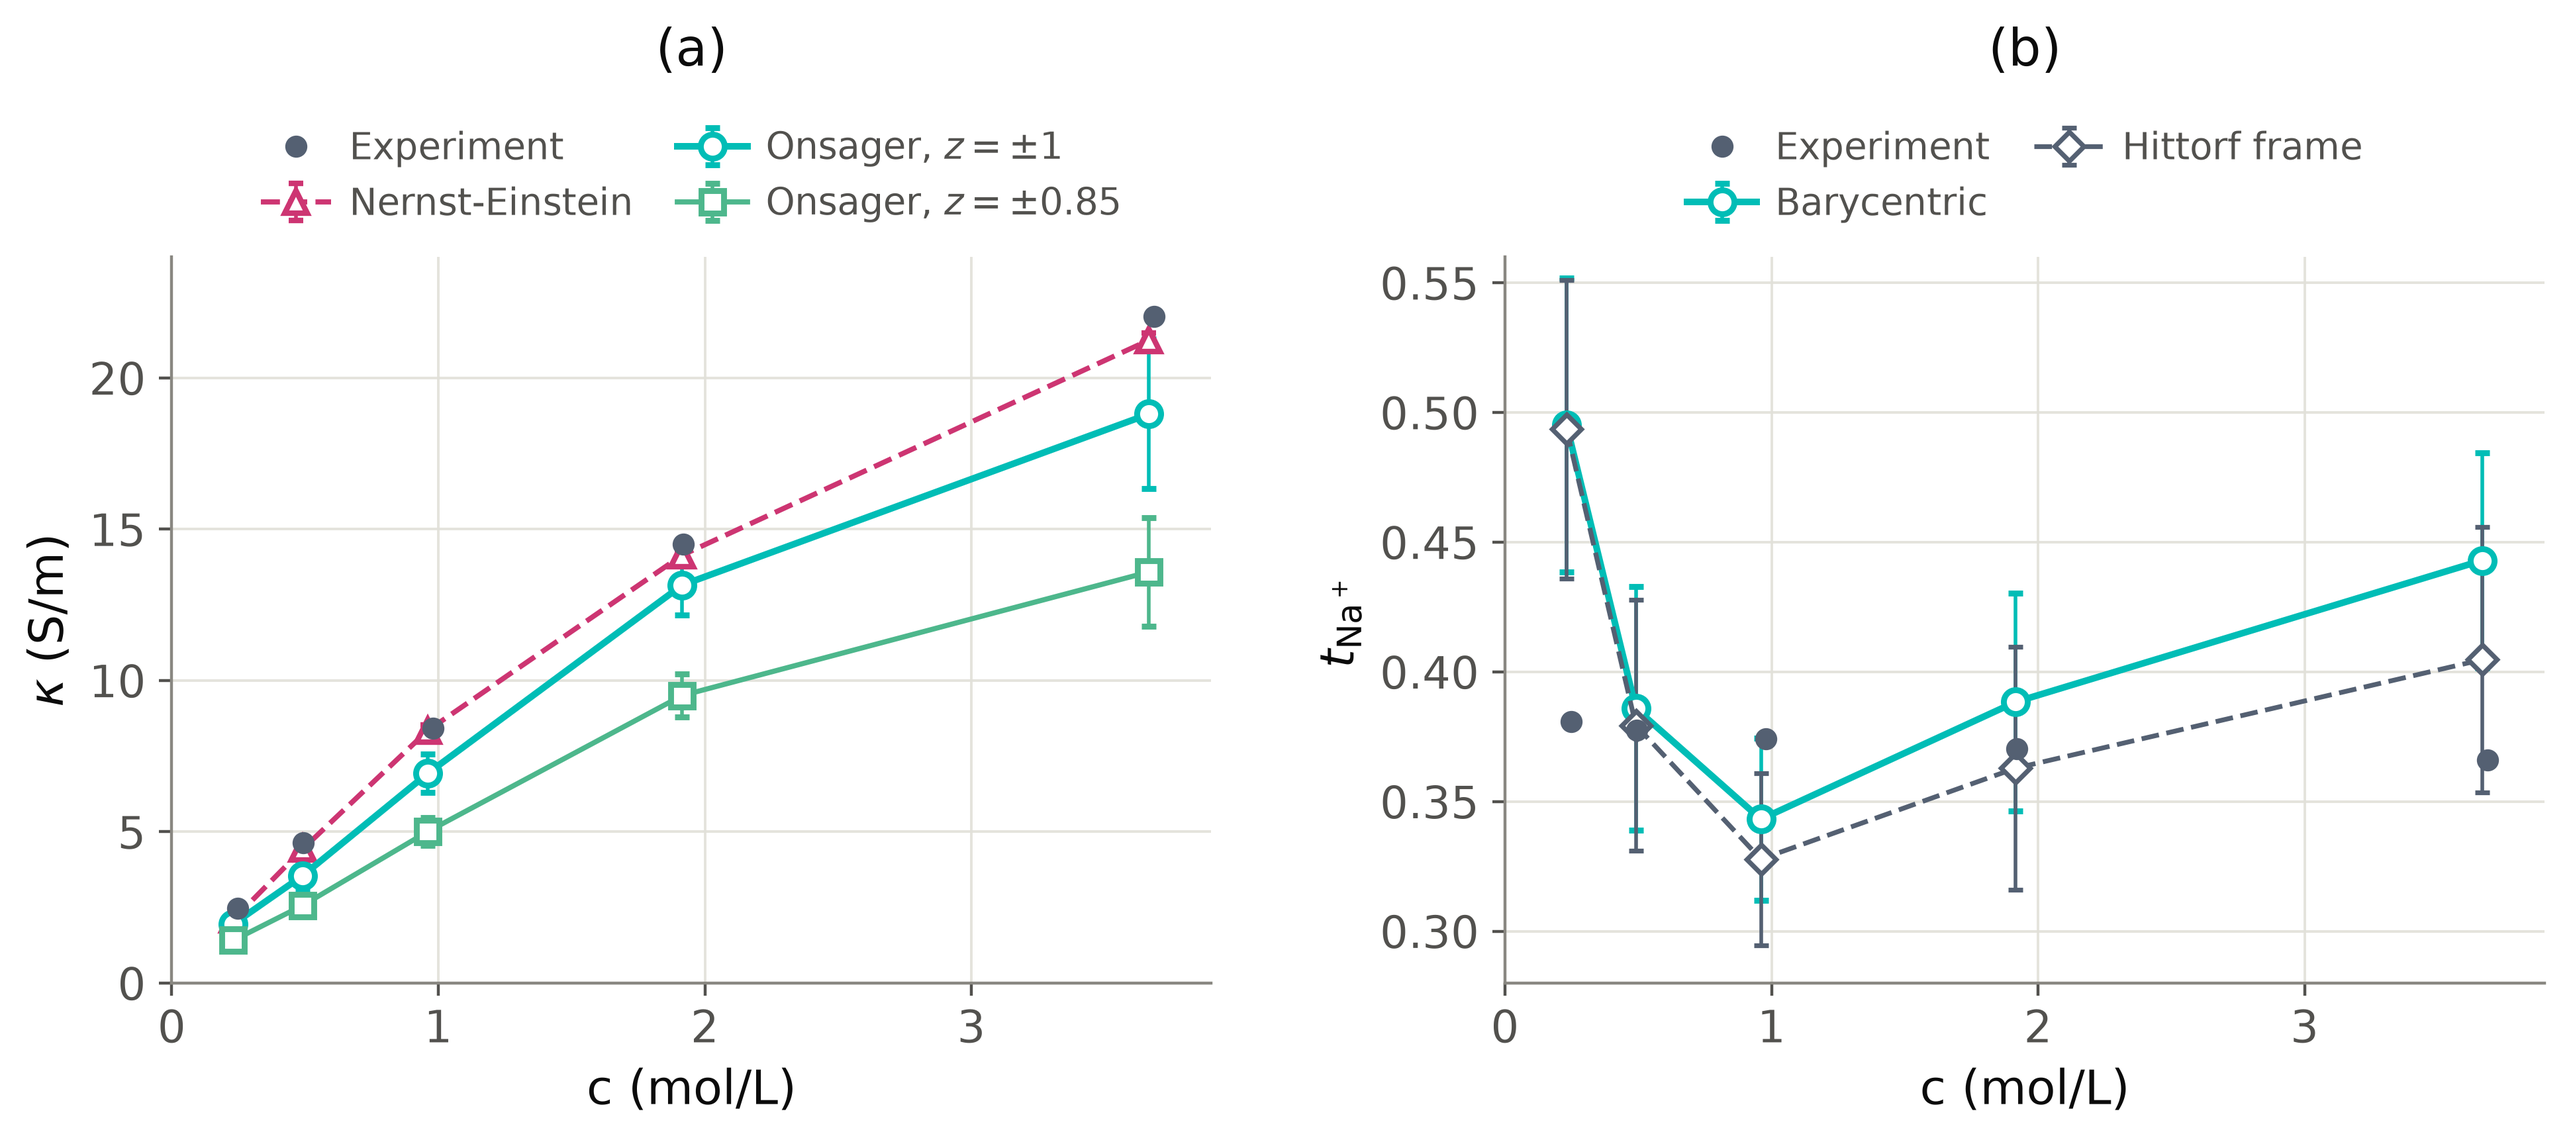
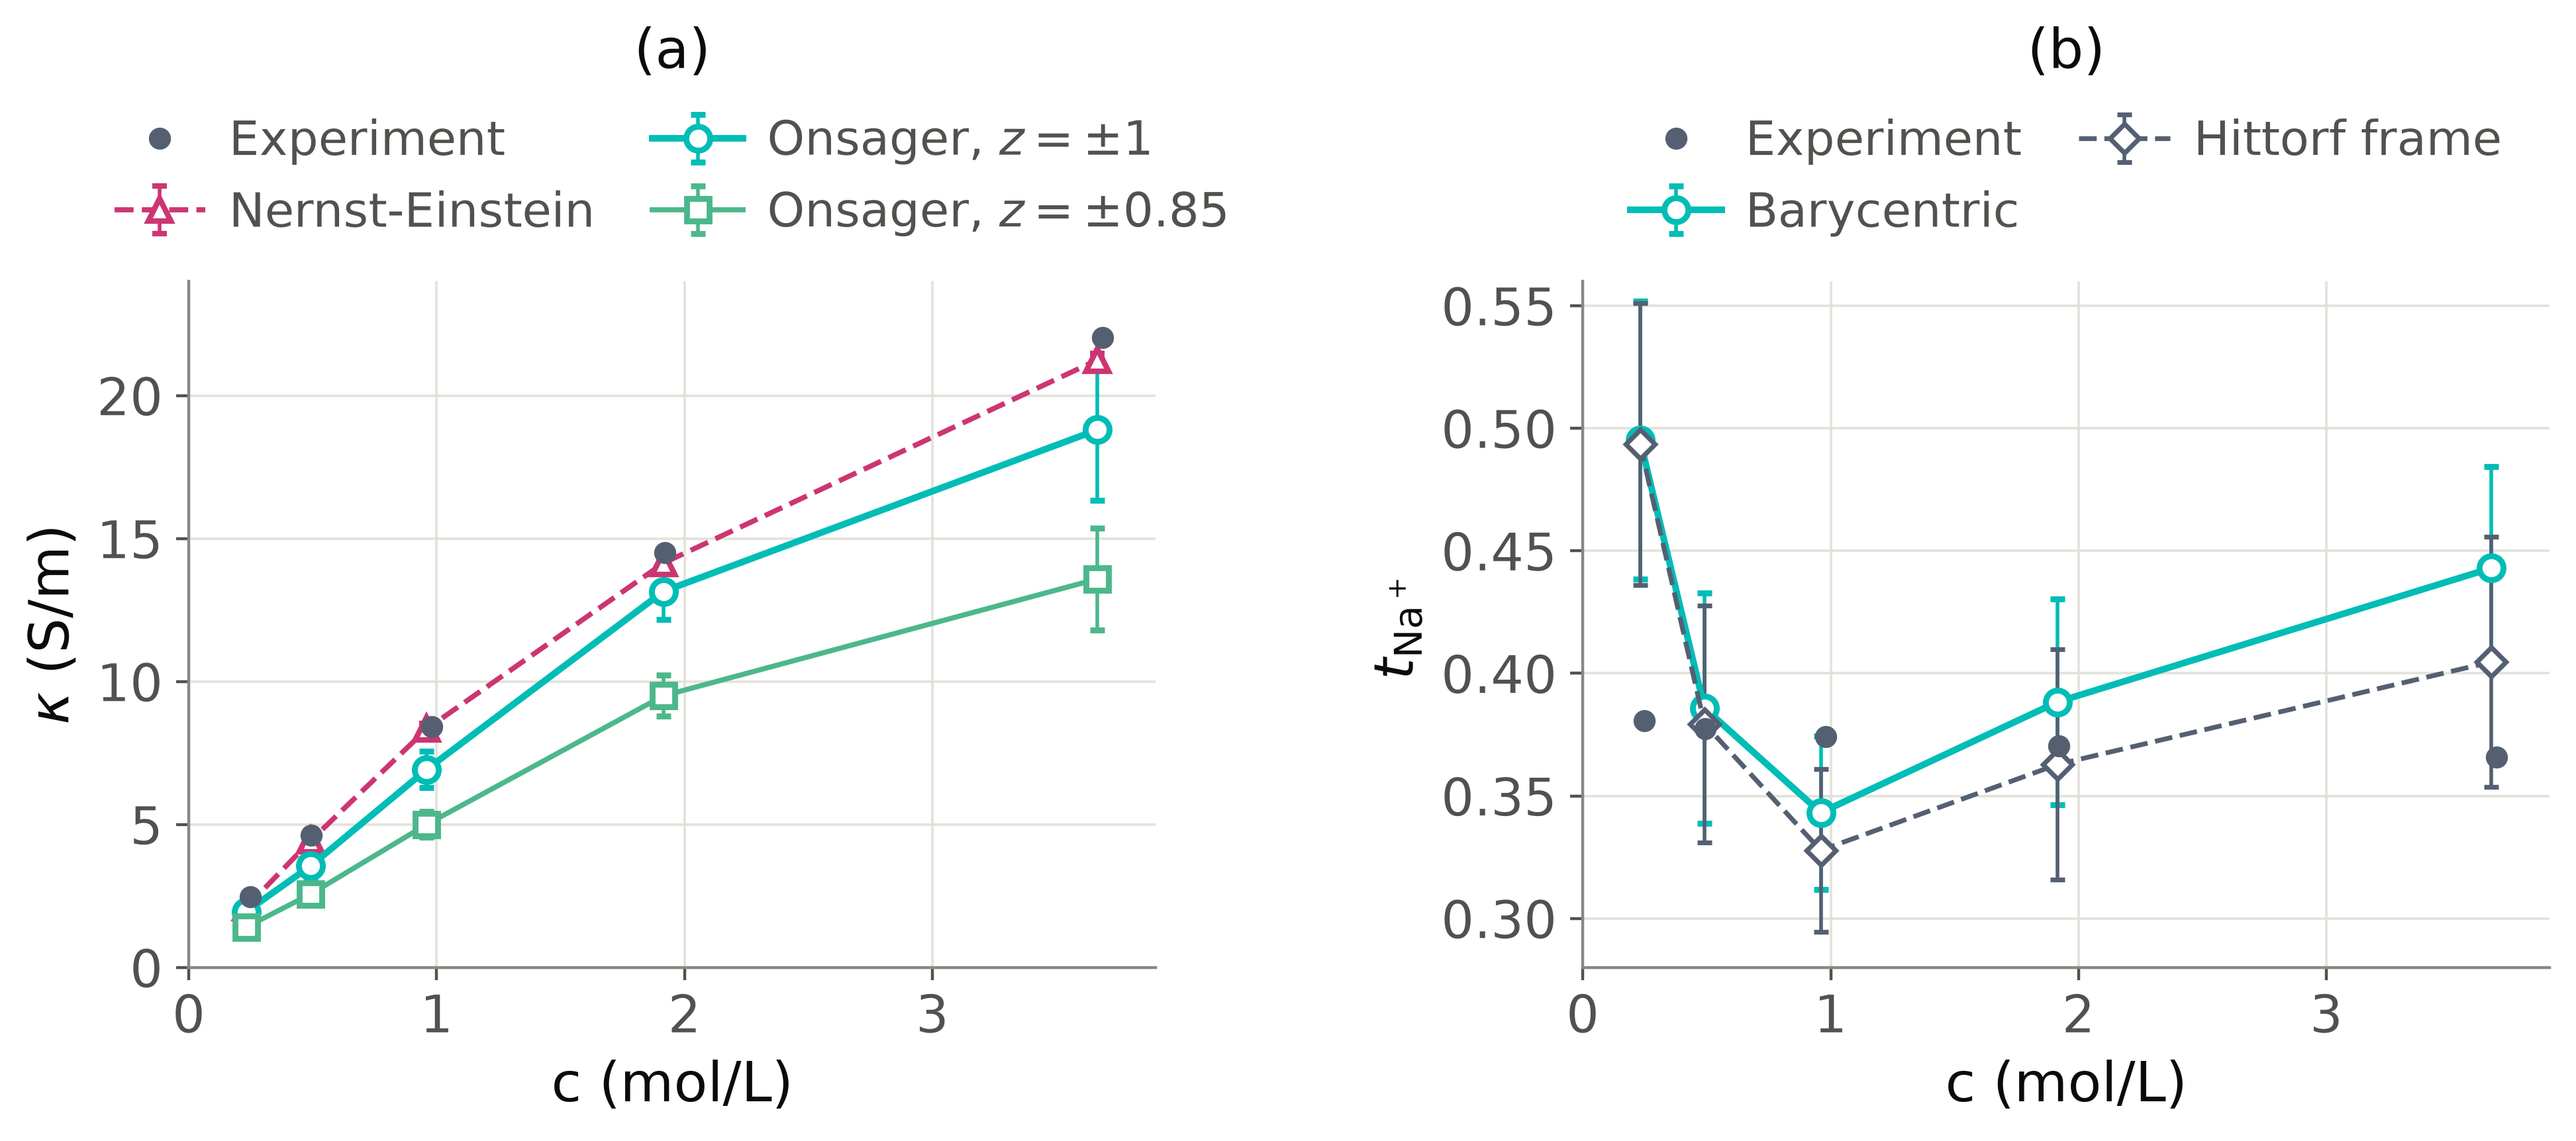
fig35: larger legend and axis-label fonts for the report

diff --git a/scripts/cerberus_nacl_diffusion/lammps/make_figures.py b/scripts/cerberus_nacl_diffusion/lammps/make_figures.py
@@ -282,11 +282,11 @@ def fig_kappa_tna(out, kap):
            zorder=5)
     a.set_xlim(0, 3.9)
     a.set_ylim(0, 24)
-    a.legend(frameon=False, fontsize=10, labelcolor=INK2, ncol=2,
+    a.legend(frameon=False, fontsize=13, labelcolor=INK2, ncol=2,
              loc="lower center", bbox_to_anchor=(0.5, 1.0),
              columnspacing=1.2, handlelength=1.9, handletextpad=0.5)
-    style(a, "c (mol/L)", r"$\kappa$ (S/m)", fs=13)
-    a.set_title("(a)", color=INK, fontsize=14, pad=52)
+    style(a, "c (mol/L)", r"$\kappa$ (S/m)", fs=15)
+    a.set_title("(a)", color=INK, fontsize=15, pad=58)
 
     _, tNa, tNa_s = pooled(mol, kap["runs_tNa"])
     sNN, sCC, sNC = kap["runs_sNaNa"], kap["runs_sClCl"], kap["runs_sNaCl"]
@@ -304,11 +304,11 @@ def fig_kappa_tna(out, kap):
            ms=5, ls="", color=SLATE3, label="Experiment", zorder=5)
     b.set_xlim(0, 3.9)
     b.set_ylim(0.28, 0.56)
-    b.legend(frameon=False, fontsize=10, labelcolor=INK2, ncol=2,
+    b.legend(frameon=False, fontsize=13, labelcolor=INK2, ncol=2,
              loc="lower center", bbox_to_anchor=(0.5, 1.0),
              columnspacing=1.2, handlelength=1.9, handletextpad=0.5)
-    style(b, "c (mol/L)", r"$t_{\mathrm{Na}^+}$", fs=13)
-    b.set_title("(b)", color=INK, fontsize=14, pad=52)
+    style(b, "c (mol/L)", r"$t_{\mathrm{Na}^+}$", fs=15)
+    b.set_title("(b)", color=INK, fontsize=15, pad=58)
     fig.tight_layout(w_pad=3)
     savefig(fig, out, "fig35_kappa_tna")
 
